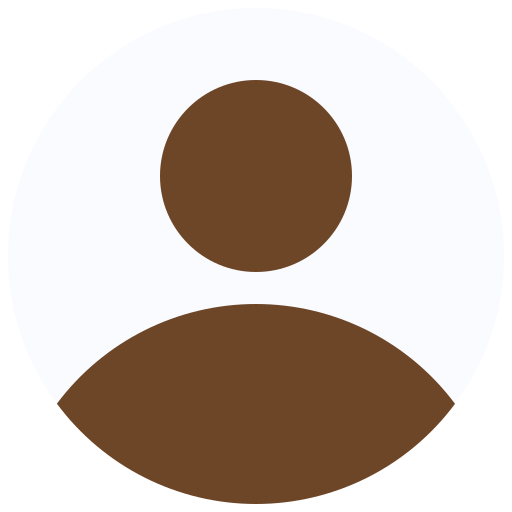
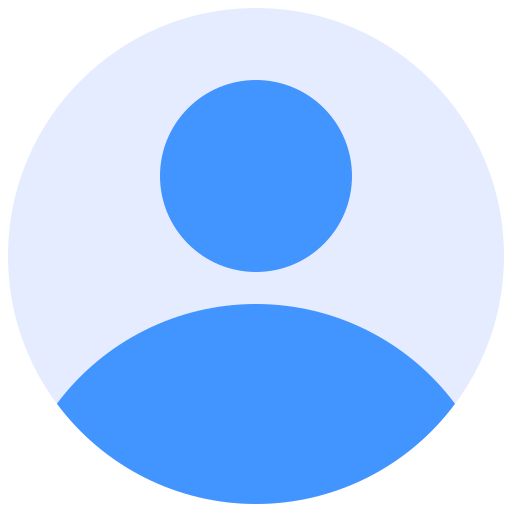
messages

diff --git a/frontend/src/pages/Messages.jsx b/frontend/src/pages/Messages.jsx
@@ -228,18 +228,76 @@ const unread = inbox.reduce((sum, m) => sum + (m.unreadCount || 0), 0);
         ) : selectedConv ? (
           <div style={styles.conversationArea}>
             <div style={styles.chatHeader}>
-              <div style={{ display: 'flex', alignItems: 'center', gap: '10px', color: '#333', fontSize: '16px' }}>
-                <img 
-                  src="/live-chat.png" 
-                  alt="Chat Icon" 
-                  style={{ width: '22px', height: '22px', objectFit: 'contain' }} 
-                />
-                <span>
-                  {user?.role?.toUpperCase() === 'ORGANIZER' ? "Συνομιλία με τον χρήστη" : "Συνομιλία με τον διαχειριστή"}
-                </span>
-              </div>
-            </div>
+                  <div style={{ display: 'flex', alignItems: 'center', gap: '10px', color: '#333', fontSize: '16px' }}>
+                    <img 
+                      src="/live-chat.png" 
+                      alt="Chat Icon" 
+                      style={{ width: '22px', height: '22px', objectFit: 'contain' }} 
+                    />
+                    <span>
+                      {user?.role?.toUpperCase() === 'ORGANIZER' ? "Συνομιλία με τον χρήστη" : "Συνομιλία με τον διαχειριστή"}
+                    </span>
+                  </div>
+                  
+                  {/* 🎯 ΔΙΟΡΘΩΘΗΚΕ: Στοιχεία Πελάτη με τα Custom Εικονίδιά σου */}
+                  {user?.role?.toUpperCase() === 'ORGANIZER' && conversation.length > 0 && (() => {
+                    const clientMsg = conversation.find(c => c.senderId !== user.id);
+                    const clientData = clientMsg ? clientMsg.sender : conversation[0]?.receiver;
 
+                    if (!clientData) return null;
+
+                    return (
+                      <div style={{ 
+                        fontSize: '13px', 
+                        color: '#555', 
+                        marginTop: '8px', 
+                        display: 'flex', 
+                        flexDirection: 'column', 
+                        gap: '6px',
+                        borderLeft: `3px solid ${COLORS.primary}`,
+                        marginLeft: '32px',
+                        paddingLeft: '12px'
+                      }}>
+                        {/* Ονοματεπώνυμο */}
+                        <div style={{ display: 'flex', alignItems: 'center', gap: '8px' }}>
+                          <img src="/user.png" alt="User" style={{ width: '18px', height: '18px', objectFit: 'contain' }} />
+                          <span>
+                            <span style={{ fontWeight: '500' }}>Ονοματεπώνυμο:</span>{' '}
+                            <span style={{ fontWeight: '700', color: COLORS.darkbrown }}>
+                              {clientData.firstName} {clientData.lastName}
+                            </span>
+                          </span>
+                        </div>
+
+                        {/* Email */}
+                        {clientData.email && (
+                          <div style={{ display: 'flex', alignItems: 'center', gap: '8px' }}>
+                            <img src="/mail.png" alt="Email" style={{ width: '18px', height: '18px', objectFit: 'contain' }} />
+                            <span>
+                              <span style={{ fontWeight: '500' }}>Email:</span>{' '}
+                              <a href={`mailto:${clientData.email}`} style={{ color: '#555', textDecoration: 'none', fontWeight: '600' }}>
+                                {clientData.email}
+                              </a>
+                            </span>
+                          </div>
+                        )}
+
+                        {/* Τηλέφωνο */}
+                        {clientData.phone && (
+                          <div style={{ display: 'flex', alignItems: 'center', gap: '8px' }}>
+                            <img src="/phone.png" alt="Phone" style={{ width: '18px', height: '18px', objectFit: 'contain' }} />
+                            <span>
+                              <span style={{ fontWeight: '500' }}>Τηλέφωνο:</span>{' '}
+                              <a href={`tel:${clientData.phone}`} style={{ color: '#555', textDecoration: 'none', fontWeight: '600' }}>
+                                {clientData.phone}
+                              </a>
+                            </span>
+                          </div>
+                        )}
+                      </div>
+                    );
+                  })()}
+                </div>
             <div style={styles.messagesList}>
               {conversation.map(c => (
                 <div key={c.id} style={{

diff --git a/backend/src/controllers/messageController.js b/backend/src/controllers/messageController.js
@@ -113,10 +113,10 @@ const getConversation = async (req, res) => {
         ]
       },
       include: {
-        sender: { select: { id: true, firstName: true, lastName: true } },
-        receiver: { select: { id: true, firstName: true, lastName: true } },
-        event: {
-          select: {
+      sender: { select: { id: true, firstName: true, lastName: true, email: true, phone: true } },
+      receiver: { select: { id: true, firstName: true, lastName: true, email: true, phone: true } },
+      event: {
+              select: {
             id: true,
             title: true,
             bookings: {
